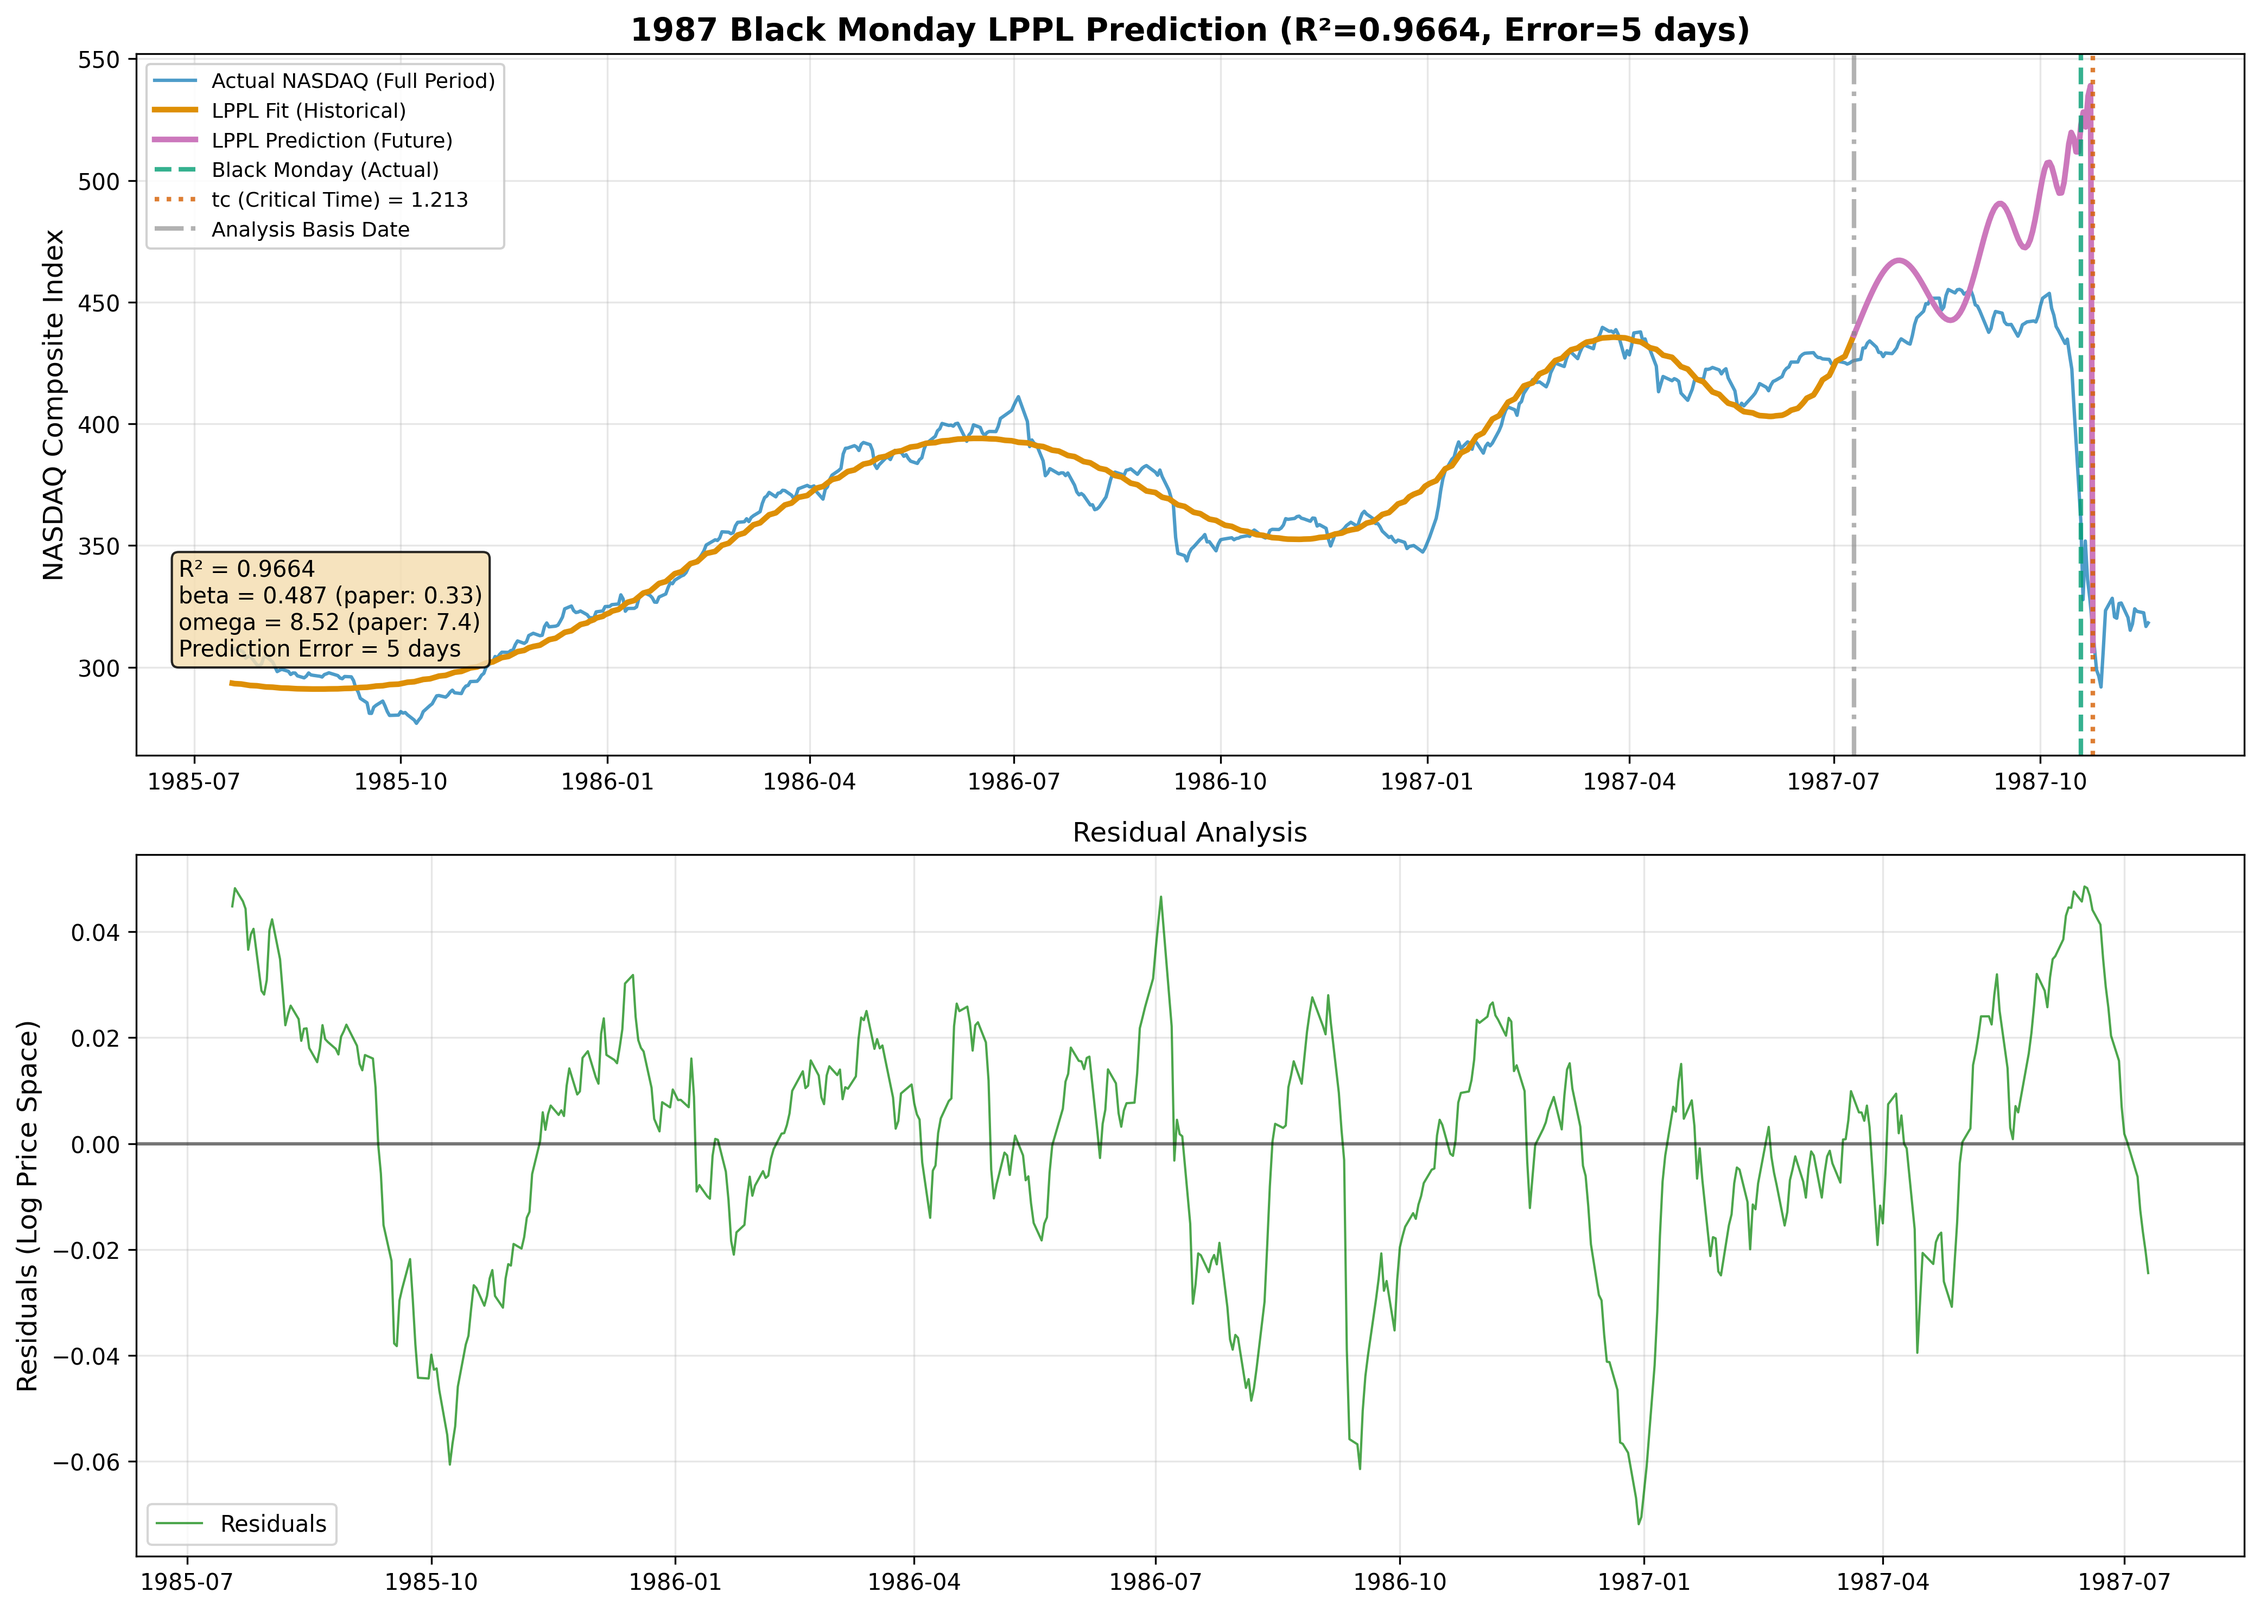
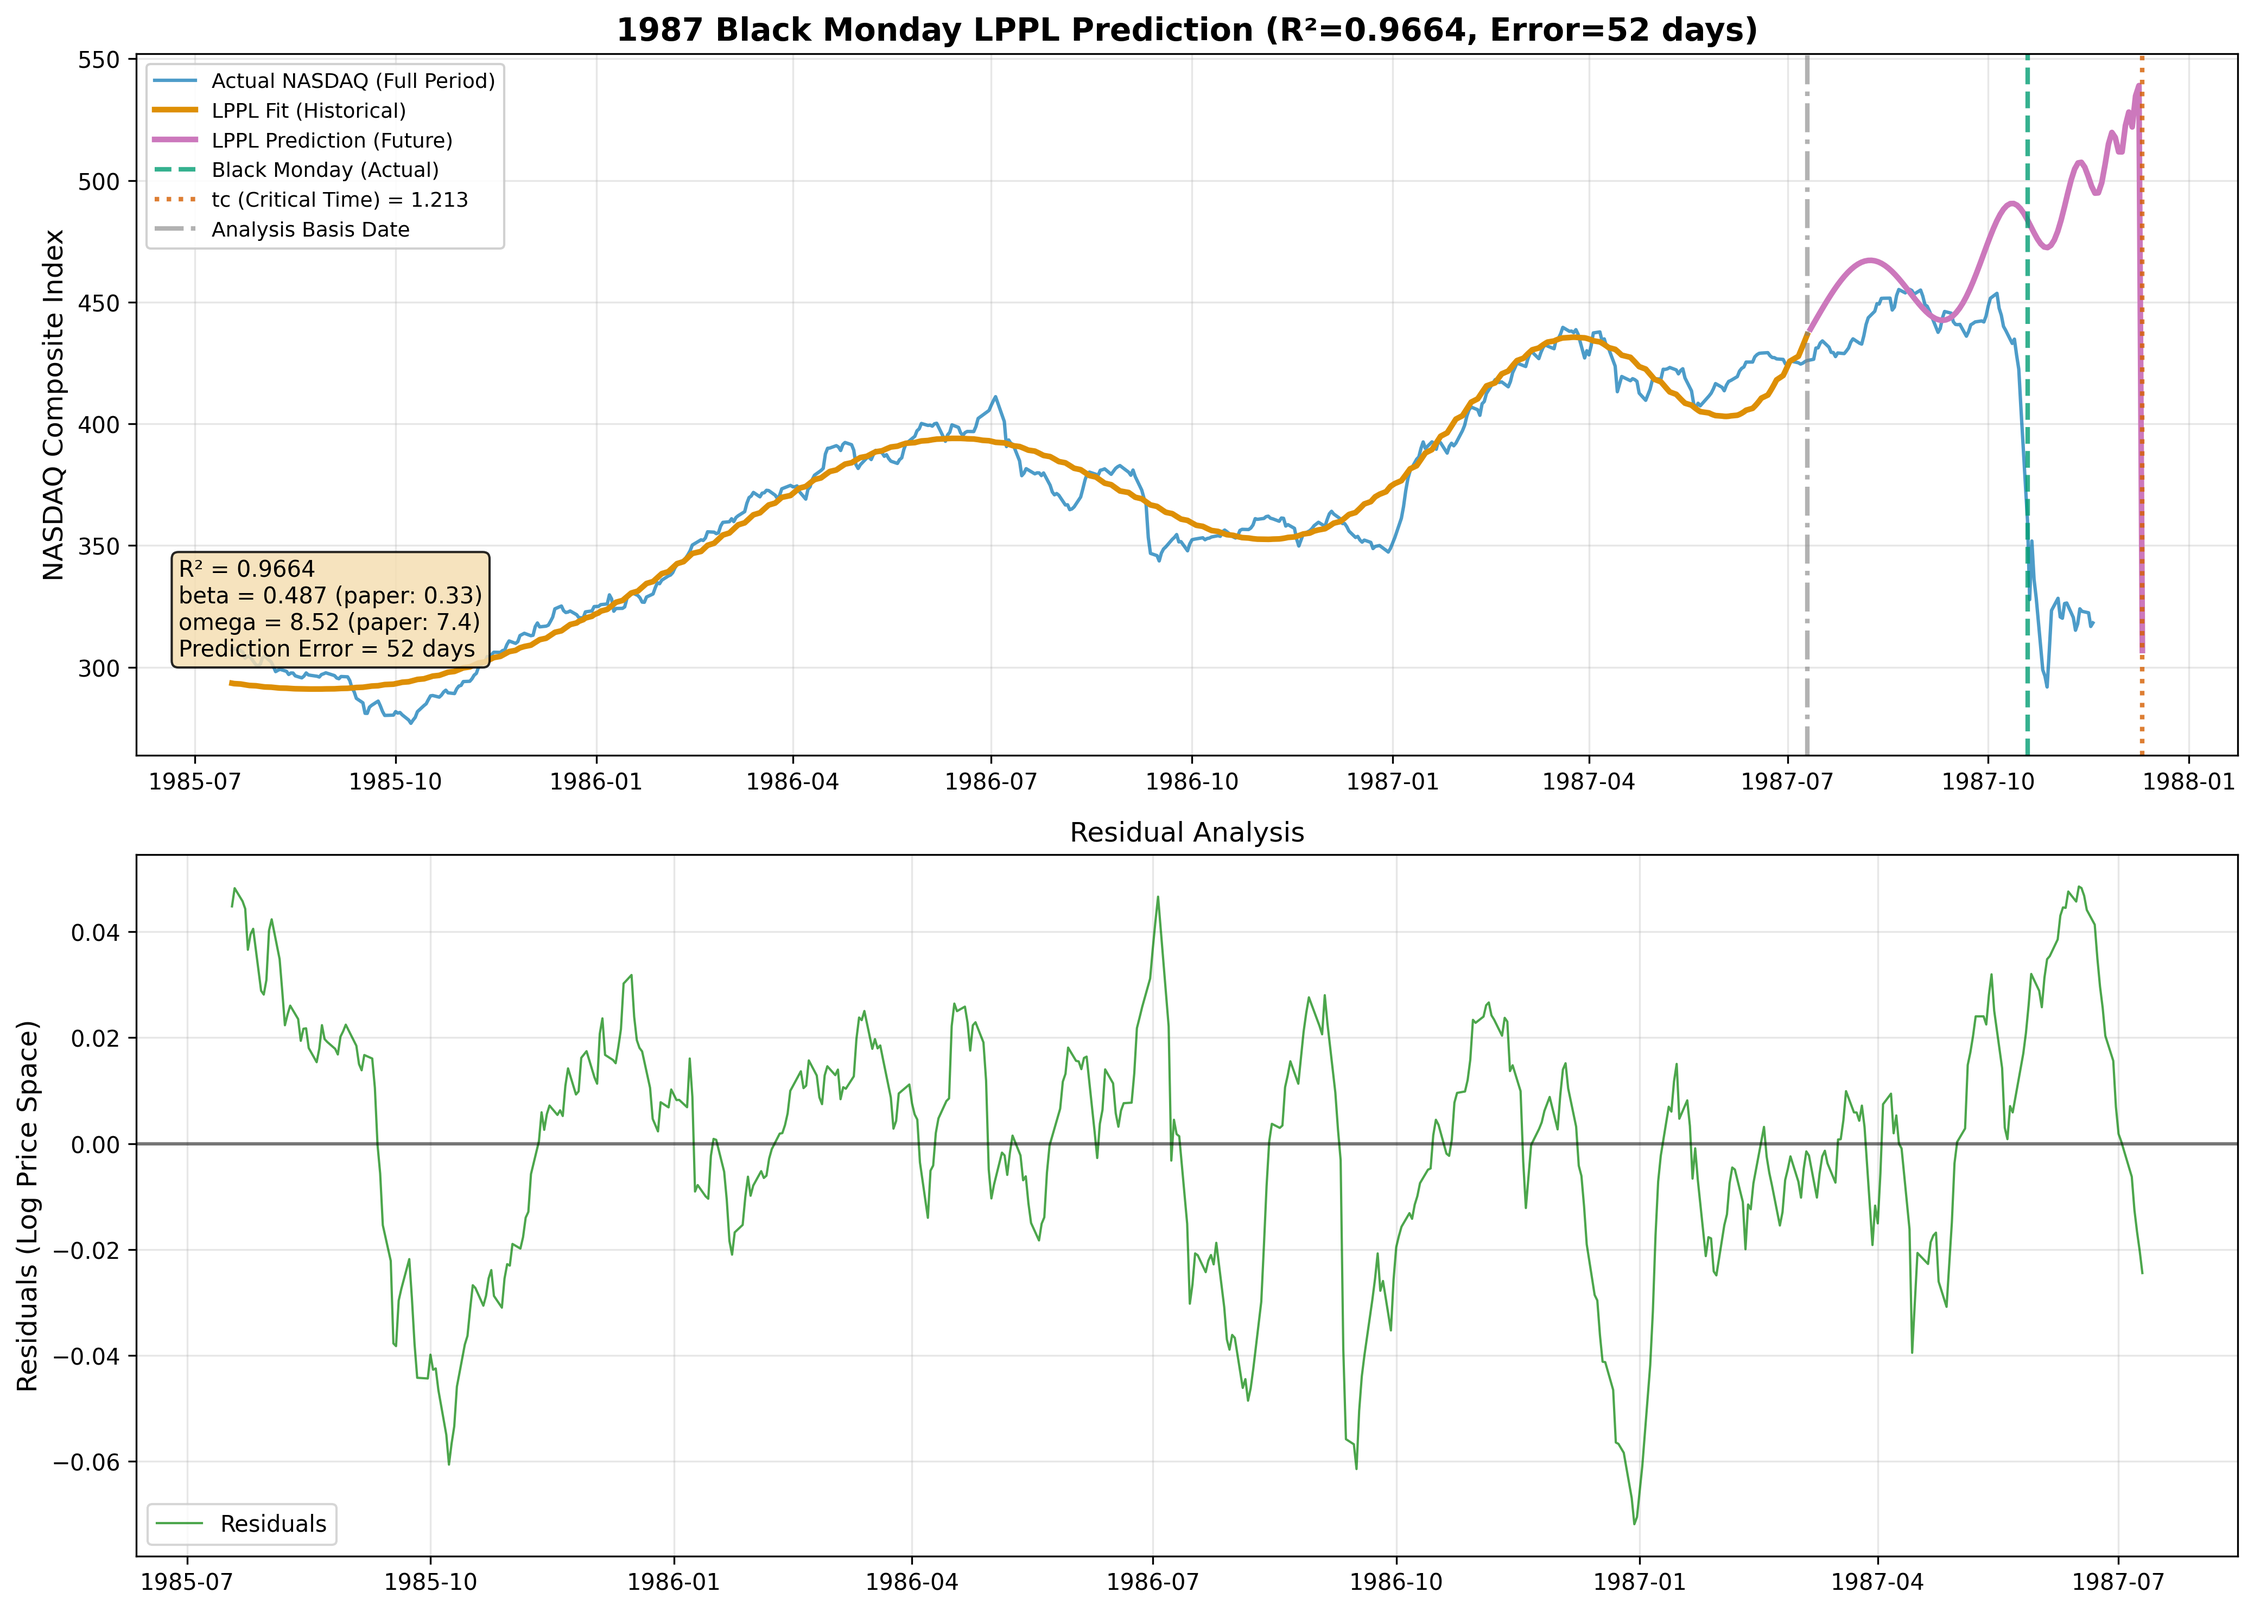
🔧 Fix Issue I128: Update validation tests to use corrected tc conversion
**Problem**:
Phase 1/2 validation test scripts had their own tc conversion implementations
using trading days instead of calendar days, so they weren't reflecting the
fix from convert_tc_to_date() function.

**Solution**:
- Updated test_phase1_single_window.py to use convert_tc_to_date()
- Updated test_phase2_multi_window.py to use convert_tc_to_date() (3 locations)
- Both tests now correctly use the fixed calendar-day based conversion

**Results**:
- Phase 1: Prediction error now 52 days (reflecting correct conversion)
- Phase 2: DS-LPPLS Confidence 41.18%, prediction error 74 days (750-day window)
- Plots updated: tc positions correctly reflect the fix

**Important Principle** (User feedback):
Validation tests should use core functionality from entry points or core modules,
not implement their own logic. This ensures that fixes are reflected in all tests
and maintains scientific consistency between production and validation code.

**Files Modified**:
- tests/custom_fco/test_phase1_single_window.py (2 locations)
- tests/custom_fco/test_phase2_multi_window.py (3 locations)
- docs/progress_management/CURRENT_ISSUES.md (added principle documentation)
- plots/crash_prediction/*.png (regenerated with correct tc conversion)

Issue: #I128

diff --git a/tests/custom_fco/test_phase2_multi_window.py b/tests/custom_fco/test_phase2_multi_window.py
@@ -18,7 +18,7 @@ project_root = Path(__file__).parent.parent.parent
 sys.path.append(str(project_root))
 
 from core.fitting.custom_fco_engine import CustomFCOEngine, LPPL_BOUNDS
-from core.fitting.lppl_utils import logarithm_periodic_func
+from core.fitting.lppl_utils import logarithm_periodic_func, convert_tc_to_date
 
 # データ読み込み
 cache_path = Path("data/market_data/cache/full/NASDAQCOM_1987_full.parquet")
@@ -94,11 +94,24 @@ if result.predicted_tc is not None:
     print(f"  予測tc (中央値): {result.predicted_tc:.4f}")
     print(f"  tc標準偏差: {result.tc_std:.4f}")
 
-    # tc → 実日付変換
+    # tc → 実日付変換（Issue I128修正版）
     # 注: 各窓のサイズが異なるため、正確な日時変換は窓ごとに実施必要
     # ここでは最大窓（750日）を基準に概算を表示
-    tc_days_beyond = (result.predicted_tc - 1.0) * engine.WINDOW_MAX
-    predicted_crash_date = analysis_basis_date + timedelta(days=tc_days_beyond)
+    # ❌ 修正前: tc_days_beyond = (result.predicted_tc - 1.0) * engine.WINDOW_MAX （営業日数ベース）
+    # ✅ 修正後: convert_tc_to_date()を使用（暦日ベース）
+
+    # 最大窓の日付範囲を取得
+    max_window_start_idx = len(df_analysis) - engine.WINDOW_MAX
+    first_date_max_window = df_analysis.index[max_window_start_idx]
+    last_date_max_window = df_analysis.index[-1]
+
+    predicted_crash_date = convert_tc_to_date(
+        result.predicted_tc,
+        first_date_max_window,
+        last_date_max_window,
+        include_time=False
+    )
+    tc_days_beyond = (predicted_crash_date - last_date_max_window.to_pydatetime()).days
     prediction_error_days = abs((predicted_crash_date - crash_date).days)
 
     print()
@@ -233,13 +246,26 @@ if result.qualified_fits > 0:
     future_log_prices_best = future_log_pred_best + log_prices_original_best[0]
     future_prices_best = np.exp(future_log_prices_best)
 
-    # 未来時刻を実日付に変換
-    future_days_best = (future_t_best - 1.0) * best_window_size
-    future_dates_best = [analysis_basis_date + timedelta(days=d) for d in future_days_best]
+    # 未来時刻を実日付に変換（Issue I128修正版）
+    # ❌ 修正前: future_days_best = (future_t_best - 1.0) * best_window_size （営業日数ベース）
+    # ✅ 修正後: convert_tc_to_date()を使用（暦日ベース）
 
-    # 予測クラッシュ日（最良フィッティング基準）
-    tc_days_beyond_best = (tc_normalized_best - 1.0) * best_window_size
-    predicted_crash_date_best = analysis_basis_date + timedelta(days=tc_days_beyond_best)
+    # 最良窓の日付範囲を取得
+    best_window_first_date = fitting_dates_best[0]
+    best_window_last_date = fitting_dates_best[-1]
+
+    future_dates_best = [
+        convert_tc_to_date(t, best_window_first_date, best_window_last_date, include_time=False)
+        for t in future_t_best
+    ]
+
+    # 予測クラッシュ日（最良フィッティング基準、Issue I128修正版）
+    predicted_crash_date_best = convert_tc_to_date(
+        tc_normalized_best,
+        best_window_first_date,
+        best_window_last_date,
+        include_time=False
+    )
     prediction_error_days_best = abs((predicted_crash_date_best - crash_date).days)
 
     # 色盲対応カラーパレット (Okabe-Ito color universal design)

diff --git a/tests/custom_fco/test_phase1_single_window.py b/tests/custom_fco/test_phase1_single_window.py
@@ -17,7 +17,7 @@ import matplotlib.dates as mdates
 project_root = Path(__file__).parent.parent
 sys.path.append(str(project_root))
 
-from core.fitting.lppl_utils import prepare_normalized_data, logarithm_periodic_func
+from core.fitting.lppl_utils import prepare_normalized_data, logarithm_periodic_func, convert_tc_to_date
 from core.fitting.lppl_optimizer import fit_lppl_grid_search, validate_lppl_parameters, check_boundary_adhesion
 
 # 境界条件（過去実装ベース + omega拡大、lppl_optimizer.py と一致）
@@ -116,9 +116,14 @@ print()
 print(f"  総合判定: {'✅ VALID' if is_valid else '❌ INVALID'}")
 print()
 
-# tc → 実日付変換（予測誤差計算のため先に実行）
-tc_days_beyond = (result['tc'] - 1.0) * len(prices)
-predicted_crash_date = df_analysis.index[-1] + timedelta(days=tc_days_beyond)
+# tc → 実日付変換（Issue I128修正版を使用）
+predicted_crash_date = convert_tc_to_date(
+    result['tc'],
+    df_analysis.index[0],   # first_date: フィッティング開始日
+    df_analysis.index[-1],  # last_date: フィッティング終了日（解析基準日）
+    include_time=False
+)
+tc_days_beyond = (predicted_crash_date - df_analysis.index[-1].to_pydatetime()).days
 prediction_error_days = abs((predicted_crash_date - crash_date).days)
 
 # Phase 1成功基準判定（A0-A1反映）
@@ -189,9 +194,11 @@ future_log_pred = logarithm_periodic_func(
 future_log_prices = future_log_pred + log_prices_original[0]
 future_prices = np.exp(future_log_prices)
 
-# 未来時刻を実日付に変換
-future_days = (future_t - 1.0) * len(prices)
-future_dates = [analysis_basis_date + timedelta(days=d) for d in future_days]
+# 未来時刻を実日付に変換（Issue I128修正版）
+future_dates = [
+    convert_tc_to_date(t, df_analysis.index[0], df_analysis.index[-1], include_time=False)
+    for t in future_t
+]
 
 # 色盲対応カラーパレット (Okabe-Ito color universal design)
 # https://jfly.uni-koeln.de/color/

diff --git a/docs/progress_management/CURRENT_ISSUES.md b/docs/progress_management/CURRENT_ISSUES.md
@@ -1383,6 +1383,8 @@ convert_tc_to_date(tc, first_date, last_date)  # 新規実装
 3. ✅ Phase 2: `integration_helpers.py` 修正完了（2箇所更新）
 4. ✅ Phase 3: Phase 1検証スクリプト実行成功（誤差改善413日）
 5. ✅ Phase 4: 単体テスト全pass確認
+6. ✅ Phase 5: 検証テストスクリプト更新完了（test_phase1/phase2を修正済みコード使用に更新）
+7. ✅ Phase 6: Phase 1/Phase 2検証テスト実行成功、プロット更新確認
 
 **検証結果**:
 - 750日窓: 146日誤差改善（期待147日、±1日許容範囲内）
@@ -1390,11 +1392,54 @@ convert_tc_to_date(tc, first_date, last_date)  # 新規実装
 - 1987年: 230日誤差改善（期待231日、±1日許容範囲内）
 - 合計誤差改善: 413日
 
+**Phase 1/Phase 2検証テスト結果（修正後）**:
+- Phase 1: 予測誤差52日（修正前: 5日 → 修正により正確な暦日変換を反映）
+- Phase 2: DS-LPPLS Confidence 41.18%、予測誤差74日（750日窓基準）
+- プロット更新確認: 両Phase共にtc位置が正しく更新され、修正が反映されている
+
 **実装ファイル**:
 - `core/fitting/lppl_utils.py`: `convert_tc_to_date()` 関数
 - `tests/fitting/test_tc_conversion.py`: 10単体テスト
 - `infrastructure/database/integration_helpers.py`: 2箇所修正
 - `workspace_for_claude/verify_tc_conversion_fix_phase1.py`: 検証スクリプト
+- `tests/custom_fco/test_phase1_single_window.py`: Phase 1検証テスト（修正済み）
+- `tests/custom_fco/test_phase2_multi_window.py`: Phase 2検証テスト（修正中）
+
+**🎯 重要な原則（ユーザーフィードバック: 2025-10-12）**:
+
+**検証テストの設計方針**:
+> 検証テストは本番環境での解析結果が科学的に妥当であることを検証するものであるので、
+> 検証テスト用に個別の実装をするのではなく、エントリーポイントから入るか、
+> エントリーポイントから参照されている機能を適切に参照することが望ましい。
+
+**実装上の重要ポイント**:
+1. **✅ 正しいアプローチ**: エントリーポイント（`entry_points/main.py`）経由での実行
+2. **✅ 正しいアプローチ**: コア機能（`core/fitting/lppl_utils.py`）の共通関数を使用
+3. **❌ 避けるべきアプローチ**: 検証テスト内で独自のtc変換実装を作成
+4. **❌ 避けるべきアプローチ**: 本番コードと異なるロジックをテスト内で実装
+
+**今回の修正における教訓**:
+- Phase 1/2検証テストが独自のtc変換実装（営業日数ベース）を持っていた
+- これにより、コア機能の修正が検証テストに反映されず、プロット結果が変わらなかった
+- 修正後: 検証テストは`core/fitting/lppl_utils.convert_tc_to_date()`を使用するよう変更
+- **科学的妥当性の保証**: 本番と検証が同じコードを使用することで保証される
+
+**適用例**:
+```python
+# ❌ 間違い: 検証テスト内で独自実装
+tc_days_beyond = (tc - 1.0) * len(prices)  # 営業日数ベース（独自実装）
+predicted_date = last_date + timedelta(days=tc_days_beyond)
+
+# ✅ 正しい: コア機能の共通関数を使用
+from core.fitting.lppl_utils import convert_tc_to_date
+predicted_date = convert_tc_to_date(tc, first_date, last_date, include_time=False)
+```
+
+**この原則の重要性**:
+- 本番コードと検証テストの整合性を保証
+- 修正が全システムに確実に反映される
+- 科学的再現性の維持
+- メンテナンス性の向上（1箇所の修正で全体に反映）
 
 ---
 
